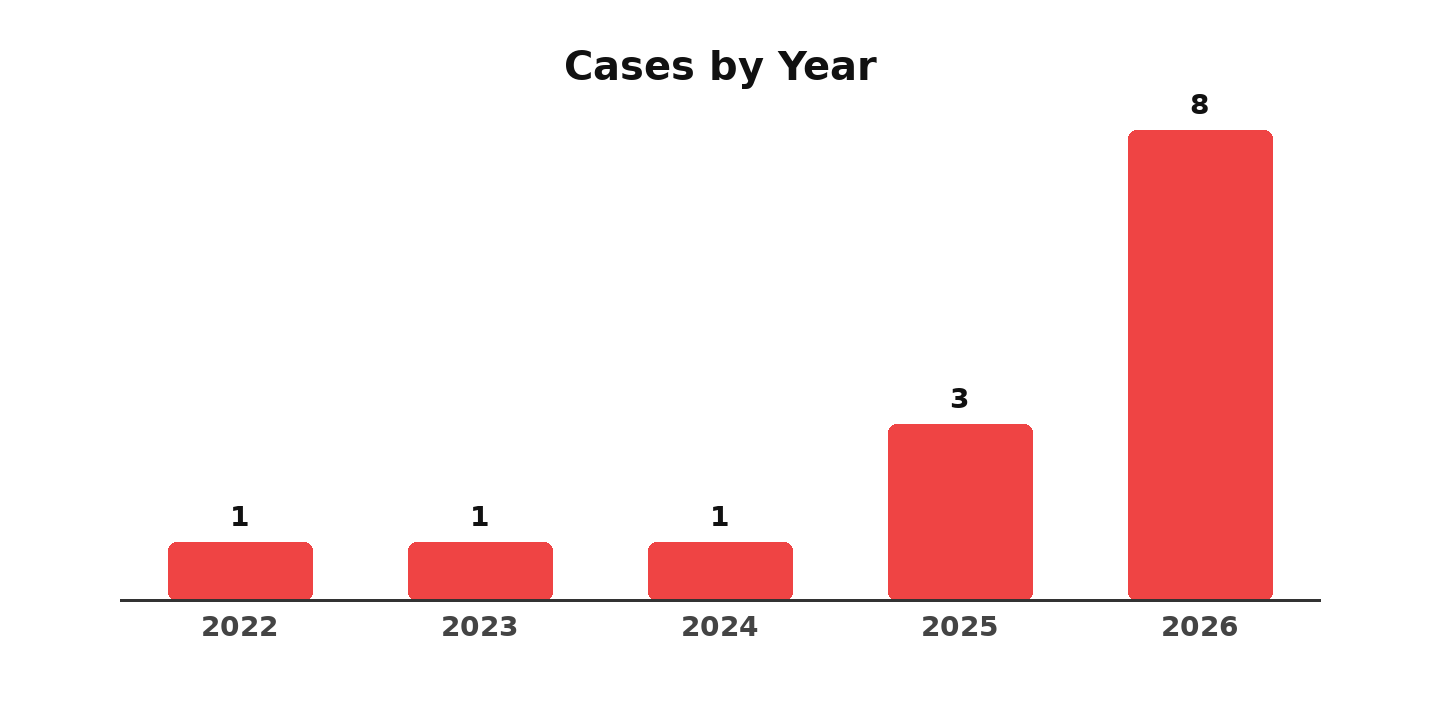
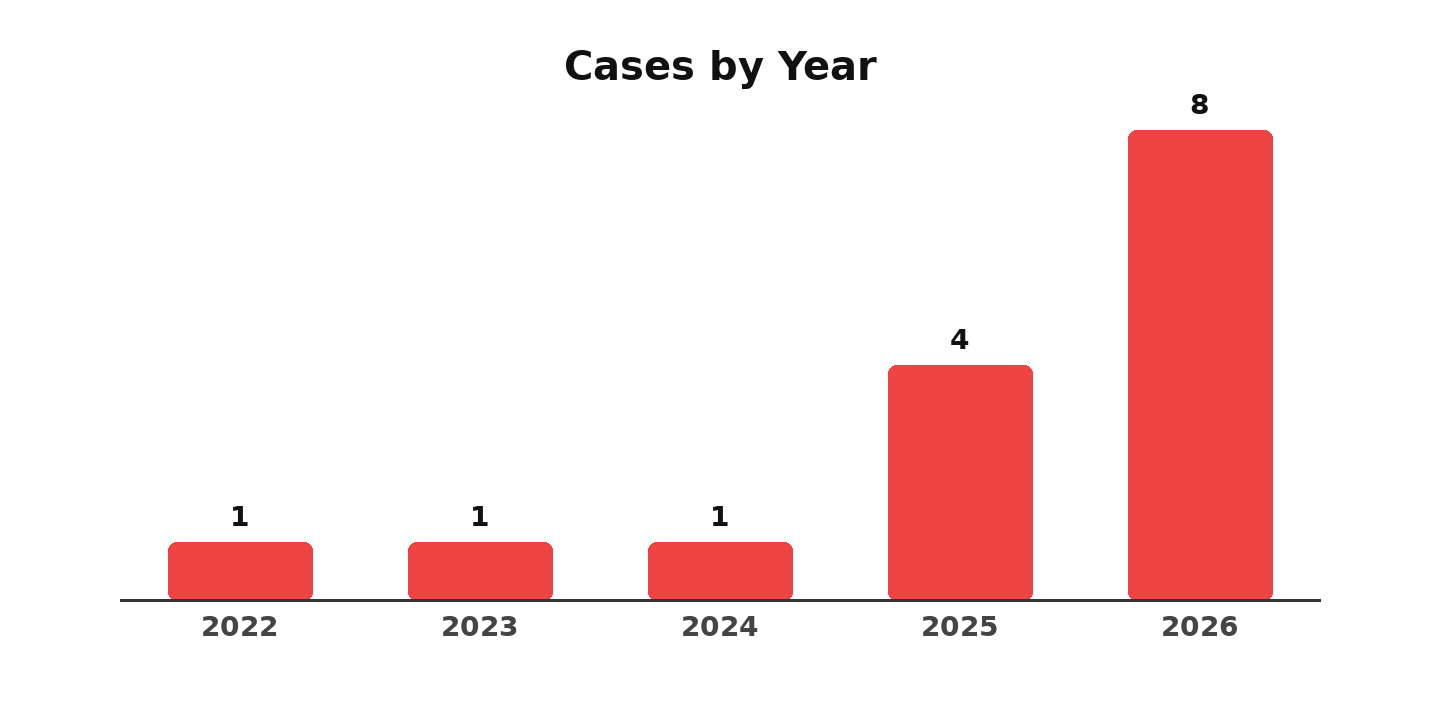
Add case: Nx s1ngularity AI-CLI secret exfiltration (2025)

Changed region(s): [[0.5938, 0.4583, 0.7188, 0.6111]]

diff --git a/cases/2025-nx-s1ngularity-ai-cli-secret-exfiltration/README.md b/cases/2025-nx-s1ngularity-ai-cli-secret-exfiltration/README.md
@@ -1,0 +1,50 @@
+# Nx s1ngularity Supply-Chain Attack Weaponized AI CLIs (2025)
+> Nx s1ngularity 供应链攻击武器化 AI CLI
+
+| Field | Value |
+|---|---|
+| Category | Hallucination & Supply Chain |
+| Severity | 🔴 Critical |
+| AI Tool | AI CLI agents |
+| Language | JavaScript, GitHub Actions, npm |
+| Real Incident | ✅ |
+| Reproducible | ❌ |
+| Disclosed | 2025-08-27 |
+| CVE | CVE-2025-10894 |
+| CVSS | — |
+
+## TL;DR
+The Nx s1ngularity incident compromised npm releases for `nx` and related packages. The malicious postinstall code scanned local files, collected credentials, published encoded data to GitHub repositories, and included an AI-agent prompt in `telemetry.js` to inventory sensitive text files.
+
+## Background / 背景
+Nx is a widely used build system for JavaScript and monorepo projects. A malicious release of Nx is high impact because it can run during package installation across developer machines, CI jobs, and editor-driven tooling.
+
+This case belongs in an AI-code-risk library because the malware did not merely target source repositories. The advisory appendix documented a prompt that instructed an AI file-search agent to enumerate text configuration and environment files and write an inventory to `/tmp/inventory.txt`. The attack shows AI coding CLIs becoming ambient tools that malware can try to commandeer.
+
+## What Went Wrong / 问题剖析
+Nx's postmortem traces the root cause to a GitHub Actions workflow vulnerability: an unsafe pull-request title validation step combined with `pull_request_target` privileges. The attacker used that path to reach workflows with higher permissions and ultimately obtain an npm publish token.
+
+Malicious versions of `nx` and several `@nx/*` packages were then published to npm. The malicious `postinstall` behavior scanned user files, looked for credentials, and posted encoded content to GitHub repositories under affected users' accounts with names containing `s1ngularity-repository`.
+
+The case also highlights a newer attacker pattern: use local AI tooling as a helper. The advisory appendix shows an instruction prompt for a file-search agent to inventory likely plaintext secrets and configuration files. In other words, developer AI tools can become part of the malware execution environment even when they are not the original vulnerability.
+
+## Impact / 影响范围
+GitHub Advisory GHSA-cxm3-wv7p-598c is reviewed, marked Critical, and associated with CVE-2025-10894. It lists multiple malicious versions of `nx` and related packages, including `nx` 21.5.0, 20.9.0, 20.10.0, 21.6.0, 20.11.0, 21.7.0, 21.8.0, and 20.12.0, plus affected `@nx/*` packages.
+
+The malicious code attempted credential theft and GitHub publication of exfiltrated data. Nx also reported that the Nx Console VS Code extension could trigger installation of the latest `nx` package during the affected window, broadening exposure beyond users who explicitly installed Nx.
+
+## Reproduction / 复现
+No PoC is included. The malicious packages have been removed or deprecated, and defensive analysis should rely on the official advisory, postmortem, and incident indicators.
+
+## Lessons & Mitigation / 启示与缓解
+- Avoid `pull_request_target` for workflows that execute untrusted content unless every interpolated field is treated as hostile.
+- Replace long-lived npm tokens with trusted publishing/OIDC where possible.
+- Scan package lifecycle scripts, especially `postinstall`, before allowing packages into CI or developer base images.
+- Treat local AI CLIs as high-value executable tooling: malware may use them for file search, summarization, credential discovery, or command planning.
+- Rotate GitHub, npm, cloud, and environment credentials if a machine installed a malicious Nx version during the affected window.
+
+## References / 参考资料
+- [Nx postmortem: s1ngularity](https://nx.dev/blog/s1ngularity-postmortem)
+- [GitHub Advisory GHSA-cxm3-wv7p-598c](https://github.com/advisories/GHSA-cxm3-wv7p-598c)
+- [Nx repository security advisory GHSA-cxm3-wv7p-598c](https://github.com/nrwl/nx/security/advisories/GHSA-cxm3-wv7p-598c)
+- [NVD: CVE-2025-10894](https://nvd.nist.gov/vuln/detail/CVE-2025-10894)

diff --git a/cases/README.md b/cases/README.md
@@ -1,6 +1,6 @@
 # Case Index / 案例索引
 
-**14 cases** across **7 categories**, spanning **2022–2026**.
+**15 cases** across **7 categories**, spanning **2022–2026**.
 
 > Auto-generated by `scripts/render_index.py`. Edit `meta.yaml` files, then re-run.
 
@@ -9,6 +9,7 @@
 | Year | Title | Severity | AI Tool | CVE |
 |---|---|---|---|---|
 | 2024 | [Hallucinated Package Supply-Chain Poisoning (huggingface-cli)](./2024-hallucinated-package-poisoning/) | 🟠 high | GPT-3.5, GPT-4, Gemini Pro, Cohere | — |
+| 2025 | [Nx s1ngularity Supply-Chain Attack Weaponized AI CLIs](./2025-nx-s1ngularity-ai-cli-secret-exfiltration/) | 🔴 critical | AI CLI agents | CVE-2025-10894 |
 | 2026 | [Agent Hallucination Self-Propagation via Skill Files (react-codeshift)](./2026-agent-hallucination-self-spread/) | 🟠 high | Claude Code, LLM Agent Skills | — |
 | 2026 | [Fake Claude Code Install Pages & Bing-AI-Promoted Malicious OpenClaw Repos](./2026-ai-tool-install-chain-abuse/) | 🟠 high | Claude Code, Bing AI Search | — |
 | 2026 | [LiteLLM PyPI Supply Chain Poisoning](./2026-litellm-pypi-supply-chain-poisoning/) | 🟠 high | LiteLLM | — |